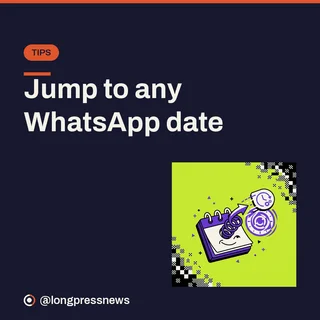
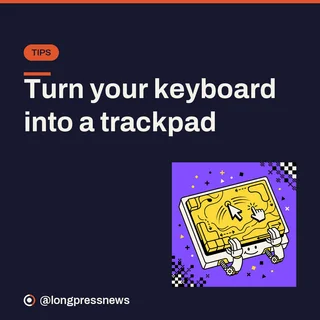
Daily sync: 2026-09-23

Changed region(s): [[0.5312, 0.5, 0.9375, 0.9062], [0.0625, 0.2188, 0.875, 0.4375]]

diff --git a/src/content/daily/2026-09-23.md b/src/content/daily/2026-09-23.md
@@ -1,66 +1,74 @@
 ---
 date: 2026-09-23
-title: "Snapdragon splits in two, ads reach ChatGPT, and a battery myth debunked"
-description: "Qualcomm makes the Snapdragon 8 Elite Gen 6 official with a new Extreme tier, ChatGPT ads go international, and we bust the force-close-your-apps battery myth…"
+title: "Qualcomm splits its flagship in two, Apple Pay eyes India, and AI models go commodity"
+description: "Snapdragon Summit gives 2026 flagships a two-tier chip and an on-device AI brain, Apple Pay lines up an October India launch, and OpenAI's price cut signals…"
 intro: >-
-  Qualcomm makes the Snapdragon 8 Elite Gen 6 official with a new Extreme tier, ChatGPT ads go international, and we bust the force-close-your-apps battery myth — plus a WhatsApp time-saver and a question about paying for ad-free AI.
+  Snapdragon Summit gives 2026 flagships a two-tier chip and an on-device AI brain, Apple Pay lines up an October India launch, and OpenAI's price cut signals AI is becoming a commodity — plus an iPhone editing trick and a 60-second Android security check.
 items:
   - slot: 1
     kind: commentary
-    heading: "Snapdragon 8 Elite Gen 6 is official — and split in two"
+    heading: "Qualcomm just split its flagship chip in two"
     body: >-
-      Qualcomm made the Snapdragon 8 Elite Gen 6 official — and split it into two chips. There's now a standard Elite and a new Elite Extreme: built on 2nm, with a 5.11GHz Oryon CPU and an NPU that runs 30B+ parameter AI models on the phone itself. These power the 2026 flagship wave — Galaxy S27, Xiaomi 18, OnePlus 16 and iQOO 16. The tier split is the real story, not the 5GHz number: peak clocks throttle fast, so thermals and software decide what you'll actually feel. 🤖
+      At Snapdragon Summit 2026, Qualcomm launched a two-tier flagship: the Snapdragon 8 Elite Gen 6 for most 2026 flagships and a beefier 8 Elite Extreme Gen 6 for the 'Ultra' models. The bigger shift isn't raw speed — it's a new on-device AI sensing hub that runs models up to 200 million parameters, learns how you use your phone, tells speakers apart and builds automation from your behaviour, all on the device rather than the cloud. Xiaomi 18 Pro is confirmed as the first phone on Gen 6, with the 18 Pro Max on the Extreme tier. Two chip tiers almost certainly means two price tiers.
     problem: >-
-      Every year the flagship-chip story collapses into a single peak clock-speed number, and buyers upgrade chasing a figure that says little about real-world performance.
+      Every year the flagship-chip pitch is 'faster', but buyers can barely feel the difference — and 'AI phone' has meant sending your data to the cloud to get useful features.
     breakthrough: >-
-      At Snapdragon Summit 2026 (Sept 22-24, Hawaii) Qualcomm officially unveiled two 2nm chips: the Snapdragon 8 Elite Gen 6 and a new Elite Extreme Gen 6, both with a ~5GHz (up to 5.11GHz) Oryon CPU, a Flex Cache architecture and an upgraded NPU. The Extreme's NPU can run Mixture-of-Experts models above 30 billion parameters on-device and carries 50% larger shared memory. They power 2026 flagships including the Galaxy S27, Xiaomi 18, OnePlus 16 and iQOO 16.
+      At Snapdragon Summit 2026 Qualcomm split its top platform into the Snapdragon 8 Elite Gen 6 (most 2026 flagships) and 8 Elite Extreme Gen 6 (the 'Ultra' tier), and centred both on a new on-device AI sensing hub that runs up to 200M-parameter models, distinguishes speakers and learns your habits to suggest automations. Xiaomi confirmed the 18 Pro as the first Gen 6 phone, with the 18 Pro Max on Extreme.
     catch: >-
-      A 5GHz peak throttles within seconds under load — sustained performance depends on each phone's thermals and software tuning, so two phones on the same chip can feel very different.
+      A two-tier chip lineup means a new, higher price rung on flagship phones, and the on-device AI's real-world gains still have to be proven outside a keynote. Exact pricing and full device lists are still rolling out.
     forYou: >-
-      Don't upgrade for the clock speed. When these phones ship, judge them on sustained performance and cooling, and decide whether the pricier Extreme tier is worth it for your actual workload.
+      If you're buying a 2026 flagship, check which tier it uses — 'Extreme' will cost more — and judge it on the on-device AI features you'll actually use, not the clock speed.
   - slot: 2
     kind: news
-    heading: "Your AI assistant is becoming an ad surface"
+    heading: "Apple Pay is finally coming to India"
     body: >-
-      Slowly, then all at once: ChatGPT ads — live in the US since February, and now in the UK, Brazil, Japan and Korea — expand internationally from today, Sept 23, alongside a Shopify ad app for merchants. 🛒 Paid tiers stay ad-free; free users see ads or can pick a no-ads mode with lower limits. The shift worth watching is what 'ad-matched' answers do to the idea of a neutral answer from your assistant.
+      Apple Pay is reportedly launching in India around October, with Axis, HDFC and ICICI among the first banks on board. It won't replace UPI, though — Apple Pay rides the same card and banking rails you already use, adding slicker tap-to-pay and Apple's tokenised security on top. For iPhone users it's a genuine convenience upgrade; for UPI it's barely a scratch, since PhonePe and Google Pay still own the QR economy.
     problem: >-
-      AI assistants have been positioned as neutral answer engines — but someone has to pay for the compute, and advertising is the obvious lever.
+      iPhone users in India have been stuck without native Apple Pay for years, while UPI apps dominate everyday payments.
     breakthrough: >-
-      OpenAI began showing ChatGPT ads to logged-in adult free and Go-tier users in the US in February 2026, expanded to the UK, Brazil, Japan and Korea by August, and from Sept 23 is taking its ChatGPT Ads Shopify app international. Ads are matched to the current conversation, past chats and memory — not third-party cross-web tracking — and advertisers don't receive chat content.
+      Apple Pay is reportedly set to launch in India around October after regulatory approvals, with Axis, HDFC and ICICI among the first bank partners, bringing tokenised tap-to-pay to iPhones.
     catch: >-
-      Paid tiers (Plus, Pro, Business, Enterprise, Education) stay ad-free, and free users can opt into a no-ads mode with lower usage limits — but ad-matched answers still blur the line between a recommendation and a placement.
+      It's still unconfirmed on exact date and rollout, and it doesn't replace UPI — it sits on top of the same card and banking rails, so it's a nicer payment skin, not a UPI killer.
     forYou: >-
-      If you rely on ChatGPT for buying decisions, treat sponsored results like any other ad, and consider a paid tier or the no-ads mode if a clean answer matters to you.
+      If you're on iPhone, expect a smoother tap-to-pay option this festive season — but keep your UPI app; it stays the default for QR payments in India.
   - slot: 3
     kind: tip
-    heading: "WhatsApp hides a proper time machine"
+    heading: "Turn your iPhone keyboard into a trackpad"
     body: >-
-      Need a WhatsApp message from a specific day — an address, a UPI screenshot, a booking? Stop scrolling. Open the chat, tap Search, then tap the calendar icon, and pick a date: WhatsApp jumps straight to that day's messages. 🗓 It works on both iPhone and Android, and two taps beats ten minutes of thumb-scrolling.
+      Here's an iPhone editing trick most people never discover: press and hold the spacebar on the keyboard and the whole keyboard turns into a trackpad. Slide your finger around to move the cursor exactly where you want, so you can fix a typo mid-word without tapping the same spot five times. It works everywhere you type — Notes, Safari, WhatsApp and more.
     problem: >-
-      Finding one old message in a busy WhatsApp chat usually means endless scrolling or guessing at keywords you can't quite remember.
+      Placing the text cursor precisely on a touchscreen is fiddly, and tapping repeatedly to fix one letter is a daily annoyance.
     breakthrough: >-
-      WhatsApp has a built-in jump-to-date search: open a chat, tap Search, tap the calendar icon, and choose a date to land directly on that day's messages. It's available on both iOS and Android.
+      Press and hold the spacebar on the iPhone keyboard to turn it into a trackpad; sliding your finger moves the cursor precisely, and it works in any text field across apps.
     catch: >-
-      It only jumps within a single chat's history, so you still need to know roughly which conversation the message lived in.
+      It's a press-and-hold gesture, so it takes a second to trigger — and it's easy to miss because Apple never surfaces it in setup.
     forYou: >-
-      Next time you need an address or payment detail from months ago, use the calendar icon instead of scrolling — it's the fastest way to reach a specific day.
+      Next time you need to fix text mid-sentence, hold the spacebar and glide to the exact spot instead of tapping repeatedly.
   - slot: 4
-    kind: myth-buster
-    heading: "Force-closing your apps to save battery does the opposite"
+    kind: security
+    heading: "Banking malware hides in this one Android setting"
     body: >-
-      The myth: apps sitting in your recents tray are 'running' and draining your battery. The truth: on both iOS and Android they're frozen, not active. Swipe one away and the phone has to cold-start it next time — which uses MORE battery and CPU than resuming a suspended app. 🔋 Do this instead: leave them be, and only force-quit an app that's genuinely frozen or misbehaving.
+      A 60-second Android check almost nobody does: go to Settings, then Accessibility, and look at which apps have access. It matters because banking malware abuses Accessibility permissions to read your screen, grab OTPs and even tap buttons for you — it's the number-one trick behind Android account-drain scams. If you spot an app you don't recognise, especially a random 'cleaner' or 'PDF' tool, remove its access now.
     problem: >-
-      A persistent habit says you should regularly swipe away all your background apps to save battery and speed up your phone.
+      Android's Accessibility permission is powerful and invisible in daily use, and banking trojans quietly exploit it to take over accounts.
     breakthrough: >-
-      Both iOS and Android suspend apps you switch away from — they sit frozen in memory, using little to no power. Force-quitting removes them entirely, so the next launch is a full cold start that consumes more battery and CPU than resuming would have.
+      Opening Settings > Accessibility shows every app with screen-reading and tap control; revoking access for anything you didn't knowingly enable shuts down the most common Android account-drain technique.
     catch: >-
-      There's a real exception: an app that's actually frozen, crashing, or misbehaving is worth force-quitting to reset it.
+      Legitimate accessibility apps also live here, so don't blanket-disable everything — remove only apps you don't recognise or didn't set up on purpose.
     forYou: >-
-      Stop mass-swiping your recents tray. Let the system manage memory, and only close an app when it's clearly broken.
+      Take 60 seconds today: open Settings > Accessibility and revoke access for any unfamiliar app, especially 'cleaner' or 'PDF' tools.
   - slot: 5
-    kind: community
-    heading: "Would you pay to keep your AI assistant ad-free?"
+    kind: hot-take
+    heading: "AI models just became a commodity"
     body: >-
-      Ads are creeping into everything — your AI assistant (ChatGPT ads went wider this week), your phone, your favourite apps. Genuine question, no wrong answer: would you pay a monthly fee to keep your main AI assistant 100% ad-free, or take the free version with ads? Curious where people land — and why.
+      The real AI news this week isn't a new benchmark — it's OpenAI permanently cutting GPT-6 prices by 50% with two new models, Sol and Luna. That's the tell: frontier AI is turning into a commodity. OpenAI now fields a three-tier family spanning premium reasoning (Astra) down to dirt-cheap bulk work (Luna). For most people the smart move isn't loyalty to one brand — it's using the cheapest model that clears your quality bar.
+    problem: >-
+      People pick an AI tool by hype and brand loyalty, often paying premium prices for capability they don't actually need.
+    breakthrough: >-
+      OpenAI released GPT-6 Sol and Luna on September 22 with a permanent 50% API price cut versus GPT-5.6, giving it a three-tier family — Astra ($10/$50 per million tokens), Sol ($2/$10) and Luna ($0.10/$0.50) — that spans premium reasoning to high-volume clerical work.
+    catch: >-
+      Cheaper tiers trade some capability for cost, so the cheapest model isn't right for every task — you still have to match the tier to the job.
+    forYou: >-
+      Stop defaulting to 'the best' model. Pick the cheapest tier that clears your quality bar for the task in front of you, and switch up only when you actually need more.
 draft: false
 ---
